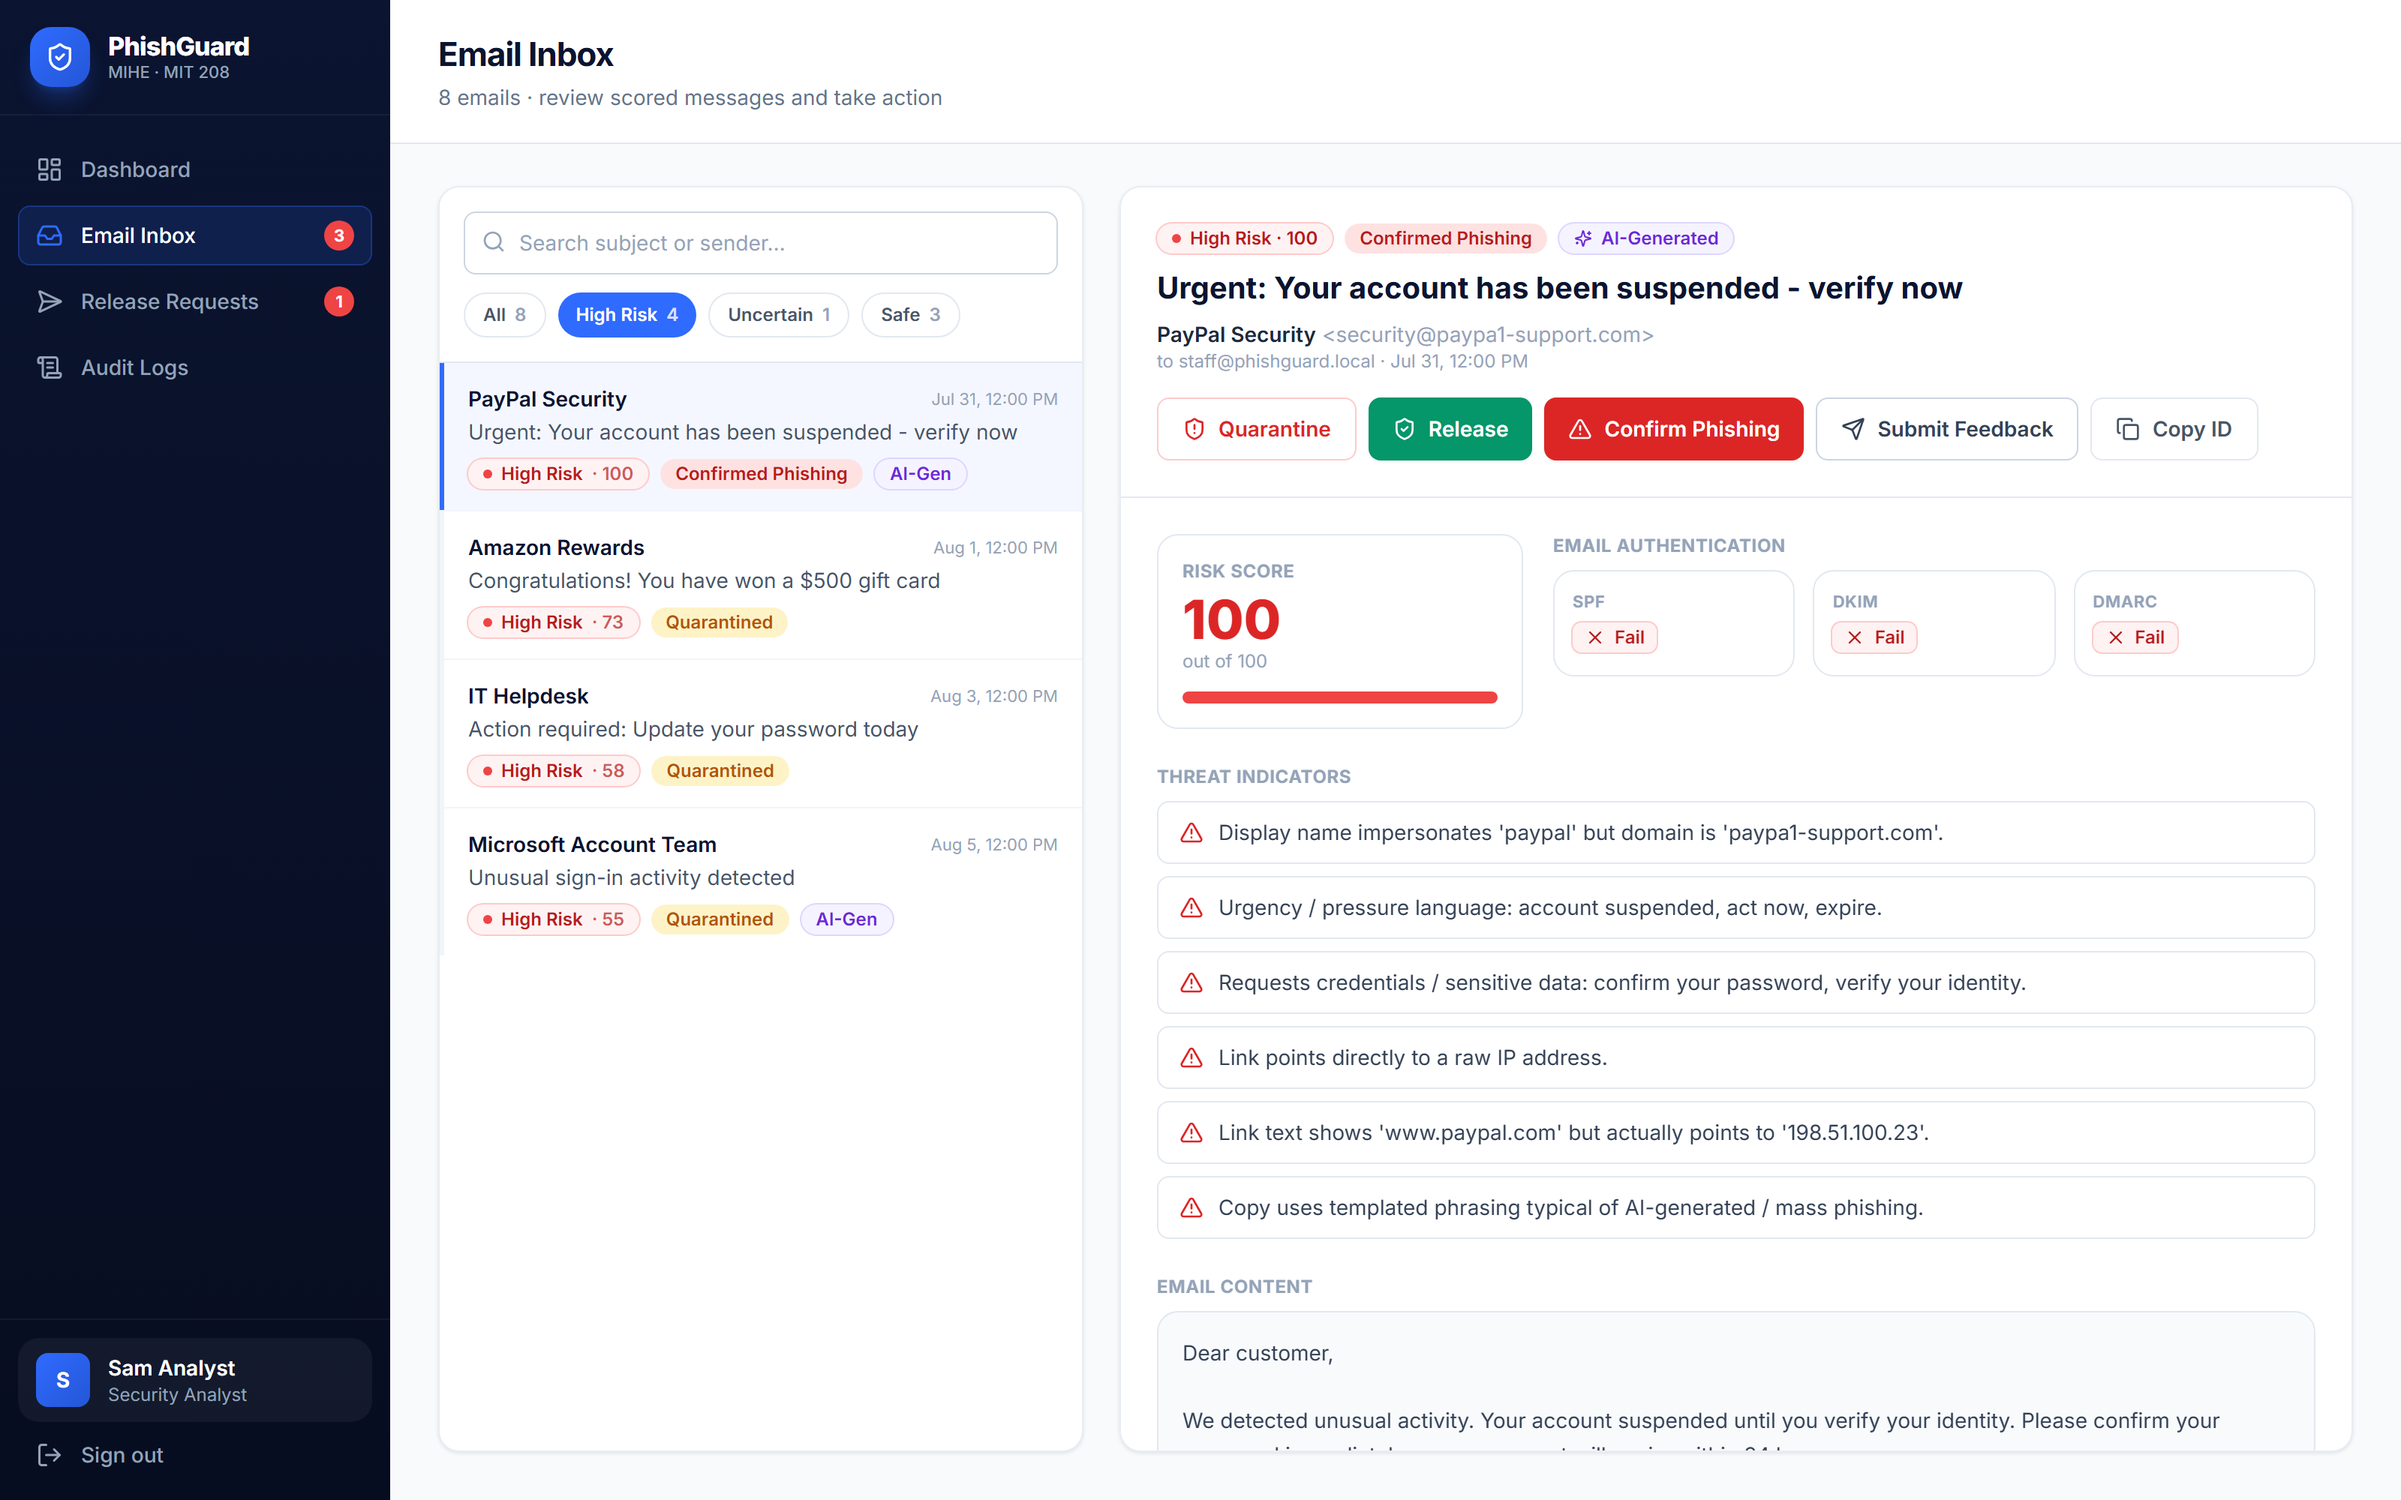
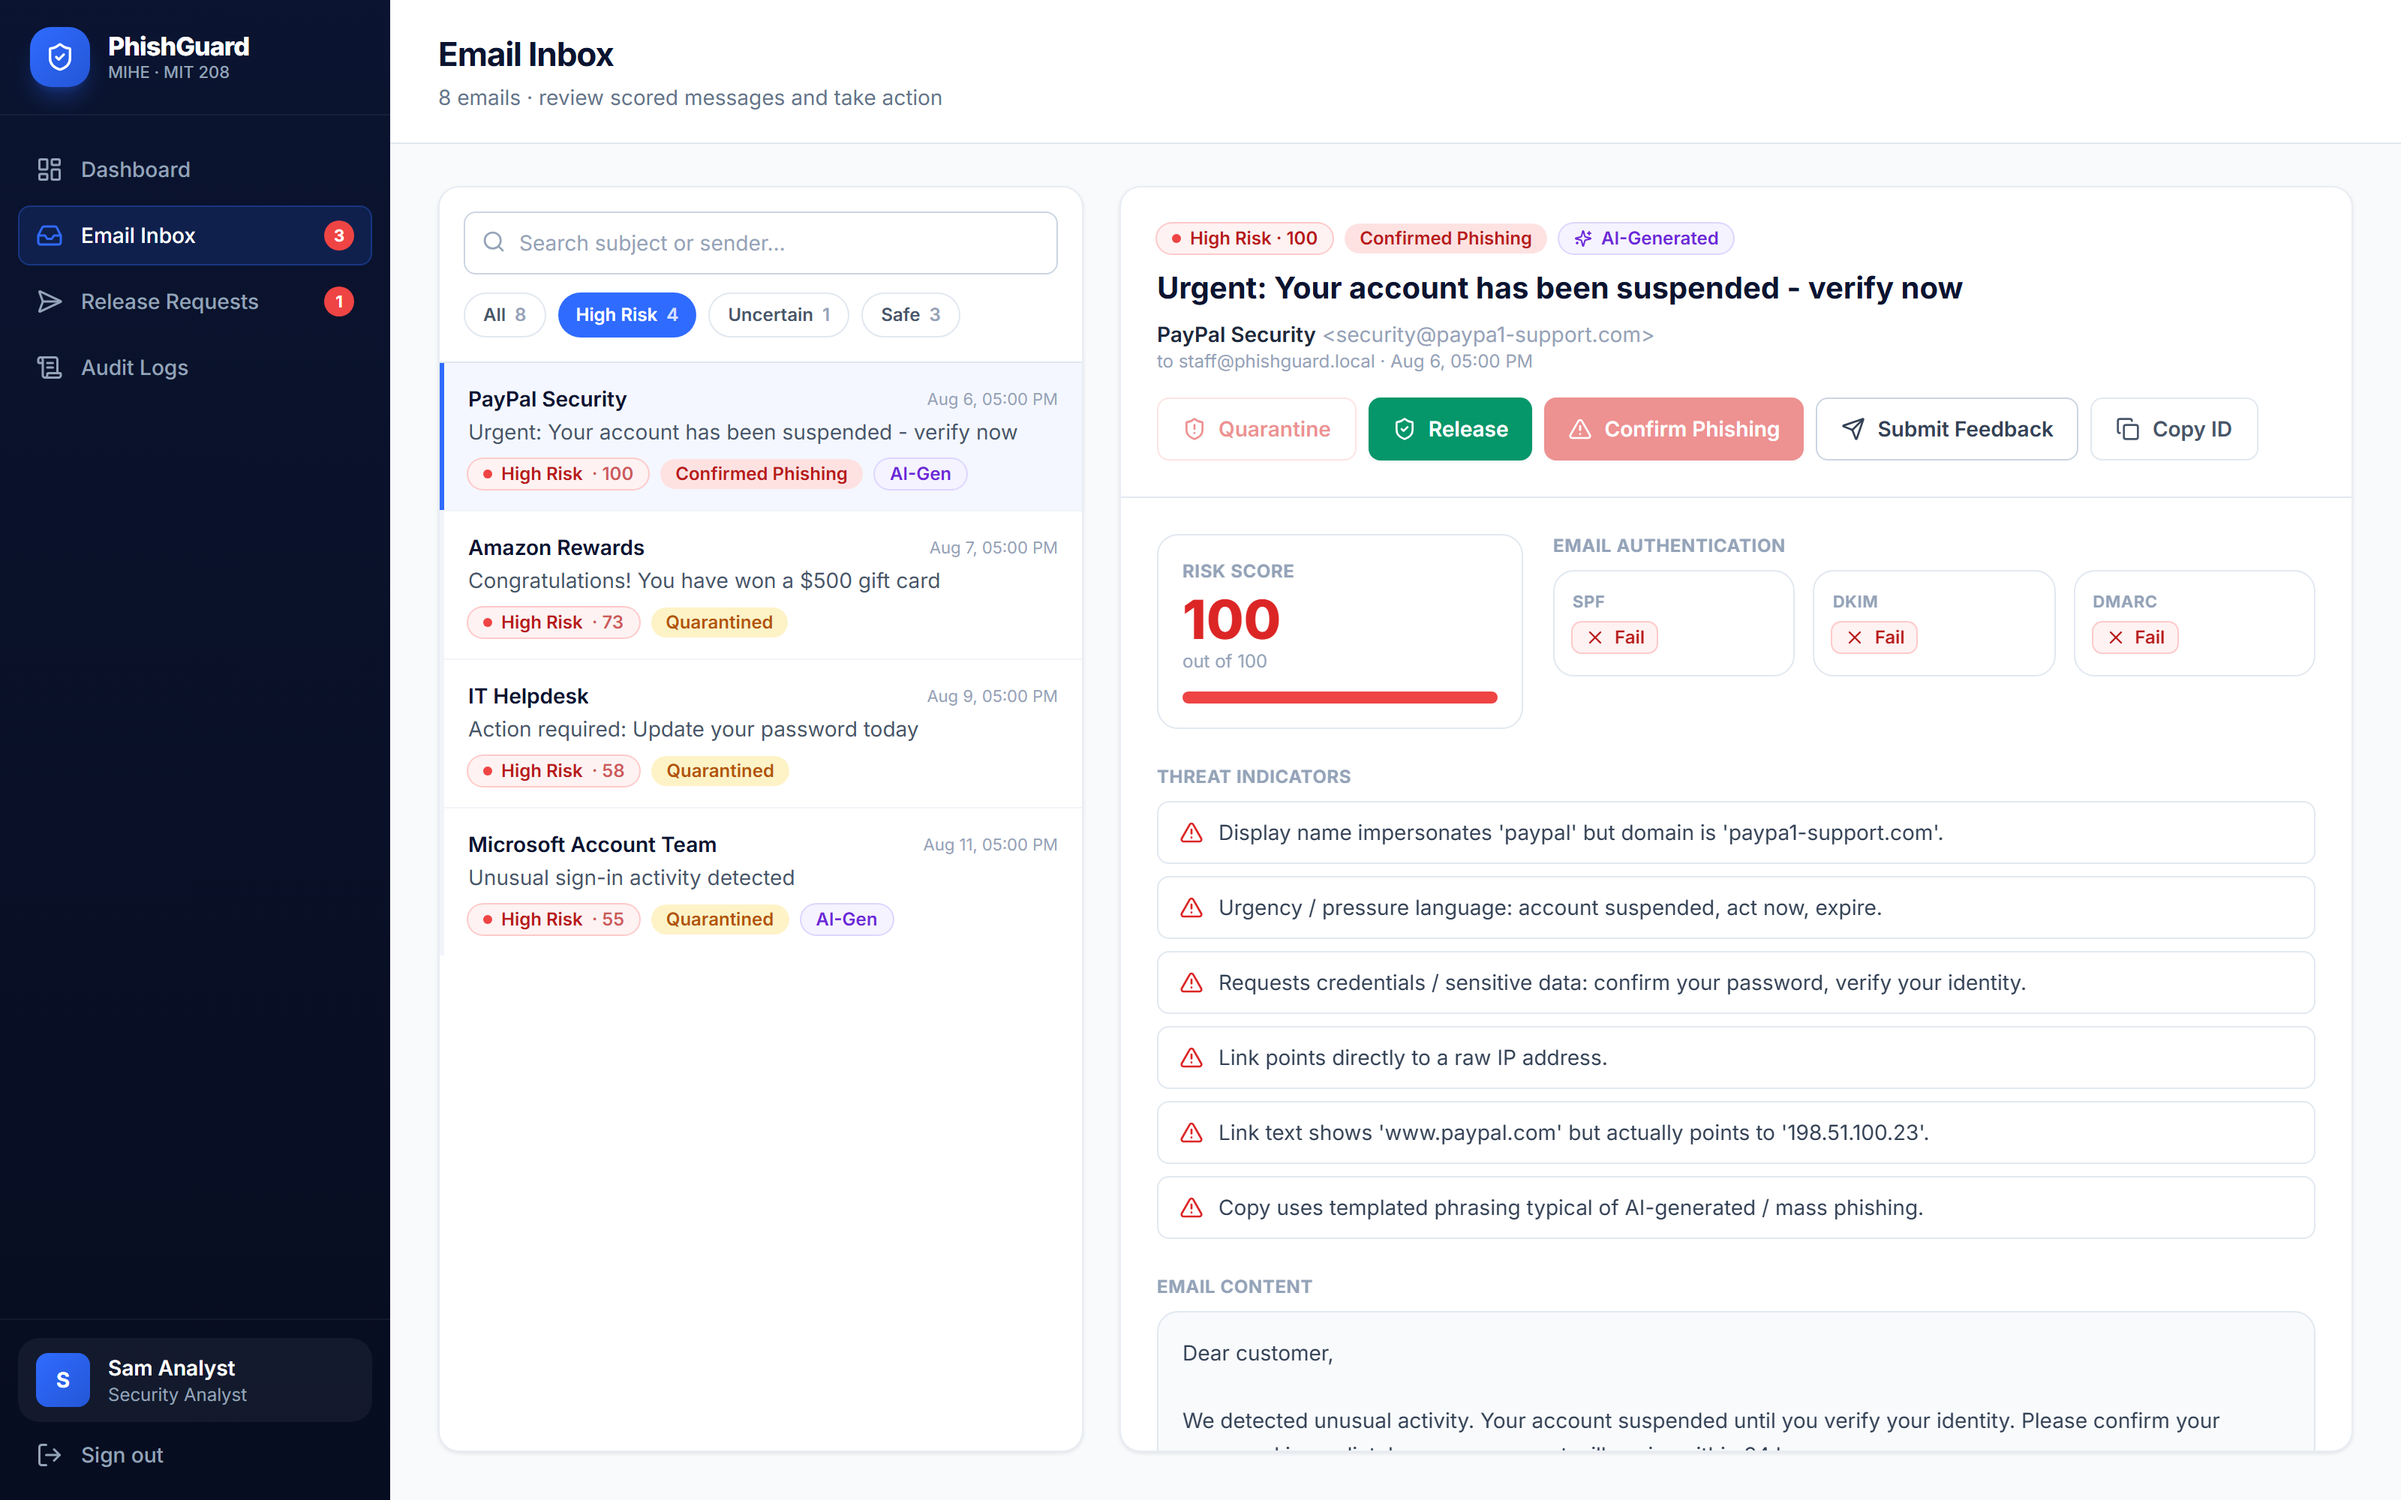
Recapture every screenshot on PostgreSQL and record the engine in the index
The whole set of 22 was retaken against the application running on PostgreSQL
16.6, the assessed target, rather than the SQLite fallback. Two new captures cover
the transition rules added in this round: an inbox email where Release is disabled
while Quarantine and Confirm Phishing stay available, and the staff view of a
delivered email where the request button reads "Already Delivered".

capture_screenshots.py now reads /system/database-status as it runs and writes the
engine into INDEX.md. The evidence folder previously asserted in prose which
database the captures came from, and nothing checked it; now the index states its
own provenance and cannot claim an engine the application was not using.

capture_postgres_evidence.py rewrites its section of INDEX.md instead of appending
to it, so running it twice no longer leaves two copies. The PostgreSQL captures are
renumbered 20-22 to make room for the two new workflow images.

diff --git a/evidence/capture_screenshots.py b/evidence/capture_screenshots.py
@@ -14,12 +14,16 @@ Usage:
 """
 from __future__ import annotations
 
+import json
 import sys
+import urllib.error
+import urllib.request
 from pathlib import Path
 
 from playwright.sync_api import sync_playwright
 
 BASE = "http://localhost:5173"
+API = "http://127.0.0.1:8000"
 OUT = Path(__file__).resolve().parent / "screenshots"
 
 # 1600x1000 at deviceScaleFactor 2 renders at 3200x2000, which stays sharp when a
@@ -42,9 +46,39 @@ def shot(page, name: str, description: str) -> None:
     print(f"  captured {name}.png  -- {description}")
 
 
+def engine() -> str:
+    """Which database the application is actually serving from, for the index.
+
+    Recorded rather than enforced: these captures are legitimate on either engine.
+    It is written into INDEX.md so the evidence states its own provenance instead
+    of relying on a sentence in the README that nothing checks.
+    """
+    try:
+        with urllib.request.urlopen(f"{API}/system/database-status", timeout=15) as r:
+            status = json.loads(r.read())
+    except (urllib.error.URLError, OSError, ValueError):
+        return "not reported (the /system/database-status endpoint was unreachable)"
+    return f"{status.get('type', status.get('engine'))} (using_fallback={status.get('using_fallback')})"
+
+
 def sign_out(page) -> None:
-    """Clear the stored session so the next login starts clean."""
+    """Clear the stored session so the next login starts clean.
+
+    localStorage is per-origin, so this must run on the frontend origin. Step 17
+    leaves the browser on the API's /docs page; clearing there silently emptied
+    the wrong origin and the next login() then found itself already signed in.
+    """
+    if not page.url.startswith(BASE):
+        page.goto(f"{BASE}/", wait_until="domcontentloaded")
     page.evaluate("() => { localStorage.clear(); }")
+
+
+def select_row_with_status(page, status_label: str) -> None:
+    """Open the first email in the list whose status badge reads ``status_label``."""
+    row = page.locator("div.divide-y > button", has_text=status_label).first
+    row.wait_for(timeout=15000)
+    row.click()
+    page.wait_for_timeout(1000)
 
 
 def login(page, email: str, password: str) -> None:
@@ -172,6 +206,28 @@ def run(page) -> None:
     shot(page, "17-openapi-docs",
          "Interactive OpenAPI documentation generated from the FastAPI application")
 
+    # ---- 18 State machine: invalid analyst actions are not offered ---------
+    # BUG-17 evidence. All three status-changing buttons used to be live on
+    # every email; now the panel offers only the transitions the API accepts.
+    sign_out(page)
+    login(page, *ANALYST)
+    page.goto(f"{BASE}/inbox", wait_until="networkidle")
+    select_row_with_status(page, "Inbox")
+    shot(page, "18-invalid-transition-blocked",
+         "Delivered email selected: Release is disabled because the API accepts it "
+         "only from quarantined or confirmed_phishing, while Quarantine and "
+         "Confirm Phishing stay available")
+
+    # ---- 19 The same rule in the staff view -------------------------------
+    sign_out(page)
+    login(page, *STAFF)
+    page.goto(f"{BASE}/staff", wait_until="networkidle")
+    select_row_with_status(page, "Inbox")
+    shot(page, "19-release-request-not-applicable",
+         "Staff view of a delivered email: the request button reads 'Already "
+         "Delivered' and is disabled, because a release request applies only to "
+         "email that is being held")
+
 
 def main() -> int:
     with sync_playwright() as p:
@@ -191,6 +247,9 @@ def main() -> int:
                  "`evidence/capture_screenshots.py` (Playwright + Chromium, "
                  f"{VIEWPORT['width']}x{VIEWPORT['height']} at {SCALE}x). "
                  "No image is edited or mocked.\n\n")
+        fh.write(f"Database engine serving these captures: **{engine()}**. The "
+                 "script reads that from `/system/database-status` as it runs, so "
+                 "the index cannot claim an engine the application was not using.\n\n")
         fh.write("| # | File | What it shows |\n|---|---|---|\n")
         for i, (name, desc) in enumerate(shots, 1):
             fh.write(f"| {i:02d} | `{name}` | {desc} |\n")

diff --git a/evidence/capture_postgres_evidence.py b/evidence/capture_postgres_evidence.py
@@ -59,27 +59,27 @@ def require_postgres() -> dict:
 
 
 def run(page) -> None:
-    # 18 — the engine the API reports, straight from the endpoint.
+    # 20 — the engine the API reports, straight from the endpoint.
     page.goto(f"{API}/system/database-status", wait_until="networkidle")
-    shot(page, "18-postgresql-database-status",
+    shot(page, "20-postgresql-database-status",
          "The API reporting PostgreSQL as the live engine, with using_fallback "
          "false — credentials are never included, only the URL scheme")
 
-    # 19 — the same workflow, rendered from PostgreSQL data.
+    # 21 — the same workflow, rendered from PostgreSQL data.
     page.goto(f"{BASE}/login", wait_until="networkidle")
     page.fill("#login-email", ANALYST[0])
     page.fill("#login-password", ANALYST[1])
     page.click("button:has-text('Sign In')")
     page.wait_for_url("**/dashboard", timeout=15000)
     page.wait_for_load_state("networkidle")
-    shot(page, "19-postgresql-dashboard",
-         "The analyst dashboard served from PostgreSQL — the same workflow as the "
-         "SQLite captures, on the assessed target database")
+    shot(page, "21-postgresql-dashboard",
+         "The analyst dashboard rendered from PostgreSQL data, on the assessed "
+         "target database rather than the SQLite fallback")
 
-    # 20 — the validation that only matters on PostgreSQL.
+    # 22 — the generated API surface, served from the PostgreSQL-backed app.
     page.goto(f"{API}/docs", wait_until="networkidle")
     page.wait_for_timeout(1500)
-    shot(page, "20-postgresql-openapi",
+    shot(page, "22-postgresql-openapi",
          "OpenAPI documentation served by the backend while connected to PostgreSQL")
 
 
@@ -95,16 +95,23 @@ def main() -> int:
             context.close()
             browser.close()
 
+    # Rewrite the PostgreSQL section rather than appending it, so running this
+    # script twice does not leave two copies in the index.
     index = OUT / "INDEX.md"
+    heading = "## PostgreSQL evidence"
     if index.exists():
-        with open(index, "a", encoding="utf-8") as fh:
-            fh.write("\n## PostgreSQL evidence\n\n")
-            fh.write("Captured by `evidence/capture_postgres_evidence.py` against the "
-                     "application running on PostgreSQL 16.6, which the script verifies "
-                     "before taking a single image.\n\n")
-            fh.write("| File | What it shows |\n|---|---|\n")
-            for name, desc in shots:
-                fh.write(f"| `{name}` | {desc} |\n")
+        body = index.read_text(encoding="utf-8")
+        body = body.split(heading)[0].rstrip() + "\n"
+        section = [
+            f"\n{heading}\n",
+            "Captured by `evidence/capture_postgres_evidence.py` against the "
+            "application running on PostgreSQL 16.6, which the script verifies "
+            "before taking a single image.\n",
+            "| File | What it shows |",
+            "|---|---|",
+        ]
+        section += [f"| `{name}` | {desc} |" for name, desc in shots]
+        index.write_text(body + "\n".join(section) + "\n", encoding="utf-8")
     print(f"\n{len(shots)} PostgreSQL screenshots written to {OUT}")
     return 0
 

diff --git a/evidence/screenshots/INDEX.md b/evidence/screenshots/INDEX.md
@@ -2,6 +2,8 @@
 
 Captured from the running application by `evidence/capture_screenshots.py` (Playwright + Chromium, 1600x1000 at 2x). No image is edited or mocked.
 
+Database engine serving these captures: **PostgreSQL (using_fallback=False)**. The script reads that from `/system/database-status` as it runs, so the index cannot claim an engine the application was not using.
+
 | # | File | What it shows |
 |---|---|---|
 | 01 | `01-login.png` | Sign-in screen with role-based demo accounts |
@@ -21,6 +23,8 @@ Captured from the running application by `evidence/capture_screenshots.py` (Play
 | 15 | `15-staff-denied-audit-access.png` | Staff navigating to /audit is redirected to the dashboard; the API also returns 403 independently of the UI |
 | 16 | `16-error-state-api-unreachable.png` | Dashboard when the API cannot be reached: an explicit, retryable error instead of an empty or permanently loading screen |
 | 17 | `17-openapi-docs.png` | Interactive OpenAPI documentation generated from the FastAPI application |
+| 18 | `18-invalid-transition-blocked.png` | Delivered email selected: Release is disabled because the API accepts it only from quarantined or confirmed_phishing, while Quarantine and Confirm Phishing stay available |
+| 19 | `19-release-request-not-applicable.png` | Staff view of a delivered email: the request button reads 'Already Delivered' and is disabled, because a release request applies only to email that is being held |
 
 ## PostgreSQL evidence
 
@@ -28,6 +32,6 @@ Captured by `evidence/capture_postgres_evidence.py` against the application runn
 
 | File | What it shows |
 |---|---|
-| `18-postgresql-database-status.png` | The API reporting PostgreSQL as the live engine, with using_fallback false — credentials are never included, only the URL scheme |
-| `19-postgresql-dashboard.png` | The analyst dashboard served from PostgreSQL — the same workflow as the SQLite captures, on the assessed target database |
-| `20-postgresql-openapi.png` | OpenAPI documentation served by the backend while connected to PostgreSQL |
+| `20-postgresql-database-status.png` | The API reporting PostgreSQL as the live engine, with using_fallback false — credentials are never included, only the URL scheme |
+| `21-postgresql-dashboard.png` | The analyst dashboard served from PostgreSQL — the same workflow as the SQLite captures, on the assessed target database |
+| `22-postgresql-openapi.png` | OpenAPI documentation served by the backend while connected to PostgreSQL |
